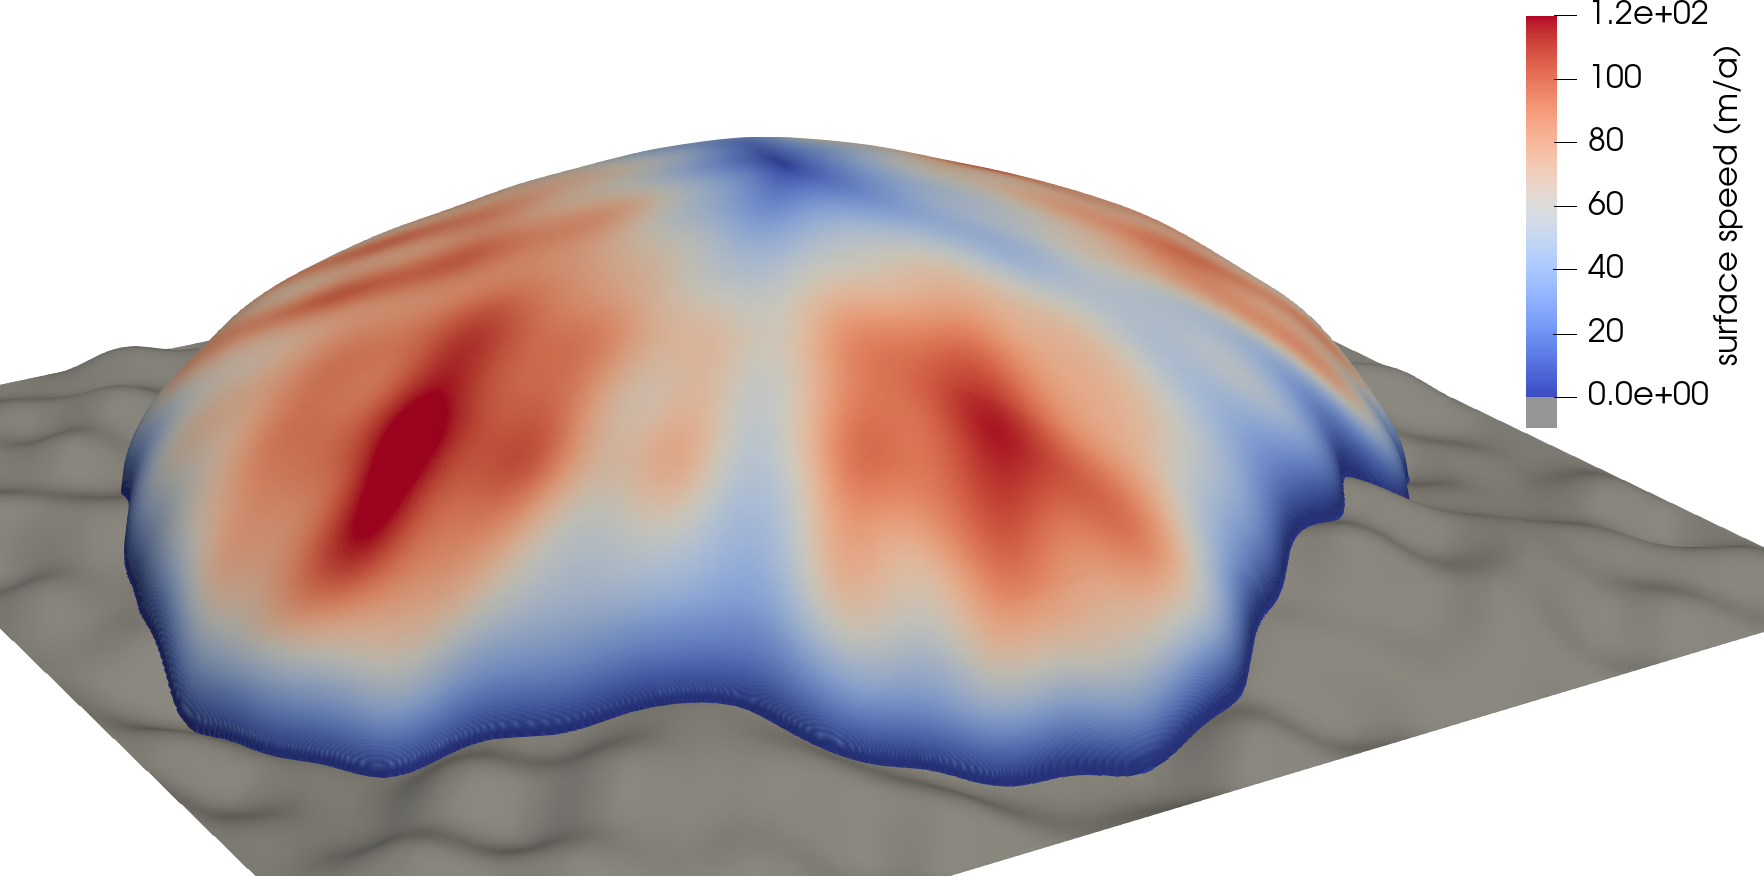
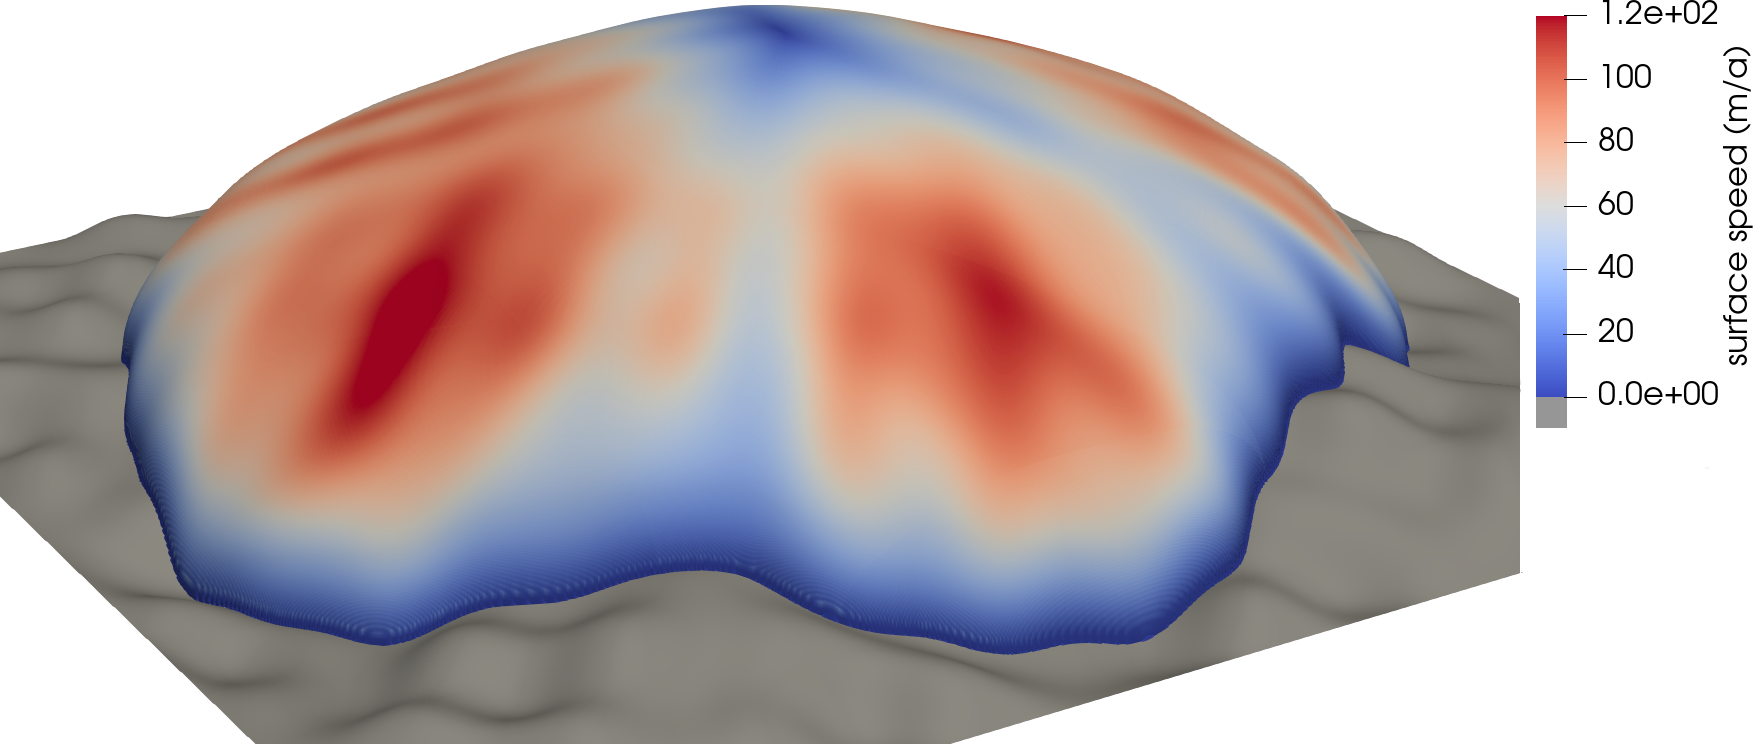
further image edit

diff --git a/paper/fascd.tex b/paper/fascd.tex
@@ -985,7 +985,7 @@ We consider the steady shallow ice approximation (SIA) obstacle problem presente
 %       -fascd_atol 1.0e-8 -o sialev8.pvd
 \begin{figure}[ht]
 \begin{center}
-\includegraphics[width=0.95\textwidth]{fixfigs/sialev8scene.png}
+\includegraphics[width=1.0\textwidth]{fixfigs/sialev8scene.png}
 \end{center}
 \caption{Solution of Example \ref{ex:sia} over a bumpy bedrock topography, with the ice speed as surface coloring, and 100-times vertical exageration.}
 \label{fig:results:siascene}
